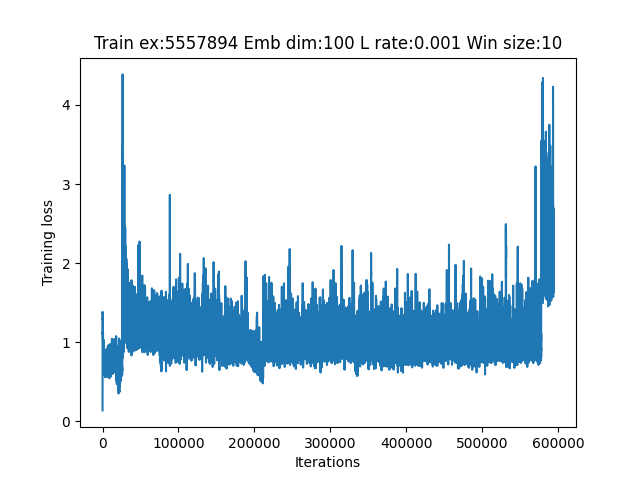
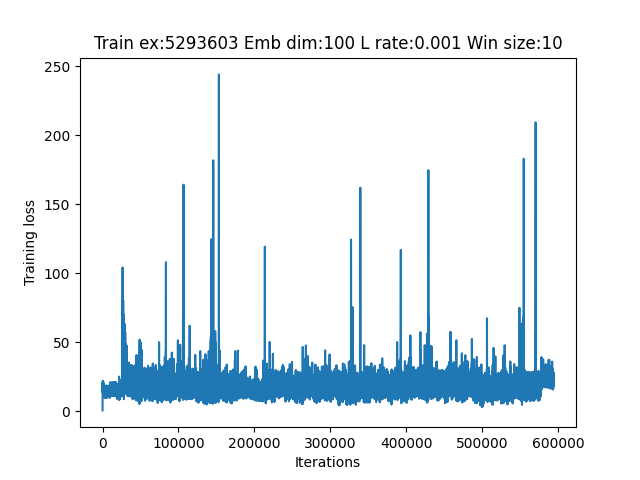
add subject analysis

diff --git a/word2vec/trainer.py b/word2vec/trainer.py
@@ -9,8 +9,8 @@ from model import SkipGramModel, CBOWModel
 
 
 class Word2VecTrainer:
-    def __init__(self, input_file, output_file, model, emb_dimension=100, batch_size=2, window_size=10, iterations=1,
-                 initial_lr=0.001, min_count=12):
+    def __init__(self, input_file, output_file, model, emb_dimension=100, batch_size=8, window_size=10, iterations=1,
+                 initial_lr=0.001, min_count=5):
 
         self.data = DataReader(input_file, min_count)
         dataset = Word2vecDataset(self.data, window_size)
@@ -72,7 +72,7 @@ class Word2VecTrainer:
                       running_loss = running_loss * 0.9 + loss.item() * 0.1
                       x.append(i)
                       y.append(running_loss)
-                      if i > 0 and i % 100 == 0:
+                      if i > 0 and i % 500 == 0:
                         print(" Loss: " + str(running_loss))
                       
                       
@@ -96,5 +96,5 @@ class Word2VecTrainer:
 
 
 if __name__ == '__main__':
-    w2v = Word2VecTrainer(input_file="Aristo-mini.txt", output_file="out.vec", model='CBOW')
+    w2v = Word2VecTrainer(input_file="Sci-fi_Novel.txt", output_file="out.vec", model='SKIP GRAM')
     w2v.train()

diff --git a/word2vec/model.py b/word2vec/model.py
@@ -91,7 +91,7 @@ class CBOWModel(nn.Module):
         emb_u = torch.stack(emb_u_temp)
 
         emb_v = torch.split(emb_v, emb_u_counts)
-        emb_v = torch.stack([ torch.mean(v,dim=0) for v in emb_v])
+        emb_v = torch.stack([ torch.sum(v,dim=0) for v in emb_v])
 
         emb_neg_v = torch.split(emb_neg_v, emb_u_counts)
         emb_neg_v = [ torch.flatten(v, start_dim=0, end_dim=1) for v in emb_neg_v ]
@@ -104,8 +104,8 @@ class CBOWModel(nn.Module):
         score = torch.clamp(score, max=10, min=-10).squeeze()
         score = -F.logsigmoid(score)
 
-        neg_score = torch.stack([ -torch.sum(F.logsigmoid(-torch.clamp( \
-            torch.matmul( emb_neg_v[i], v.unsqueeze(1)), max=10, min=-10)), dim=0) \
+        neg_score = torch.stack([ -torch.mean(F.logsigmoid(-torch.clamp( \
+            torch.matmul( emb_neg_v[i], v.unsqueeze(1)), max=10, min=-10))) \
             for i,v in enumerate(emb_v)])
 
         #neg_score = torch.bmm(emb_neg_v, emb_u.unsqueeze(2)).squeeze()
